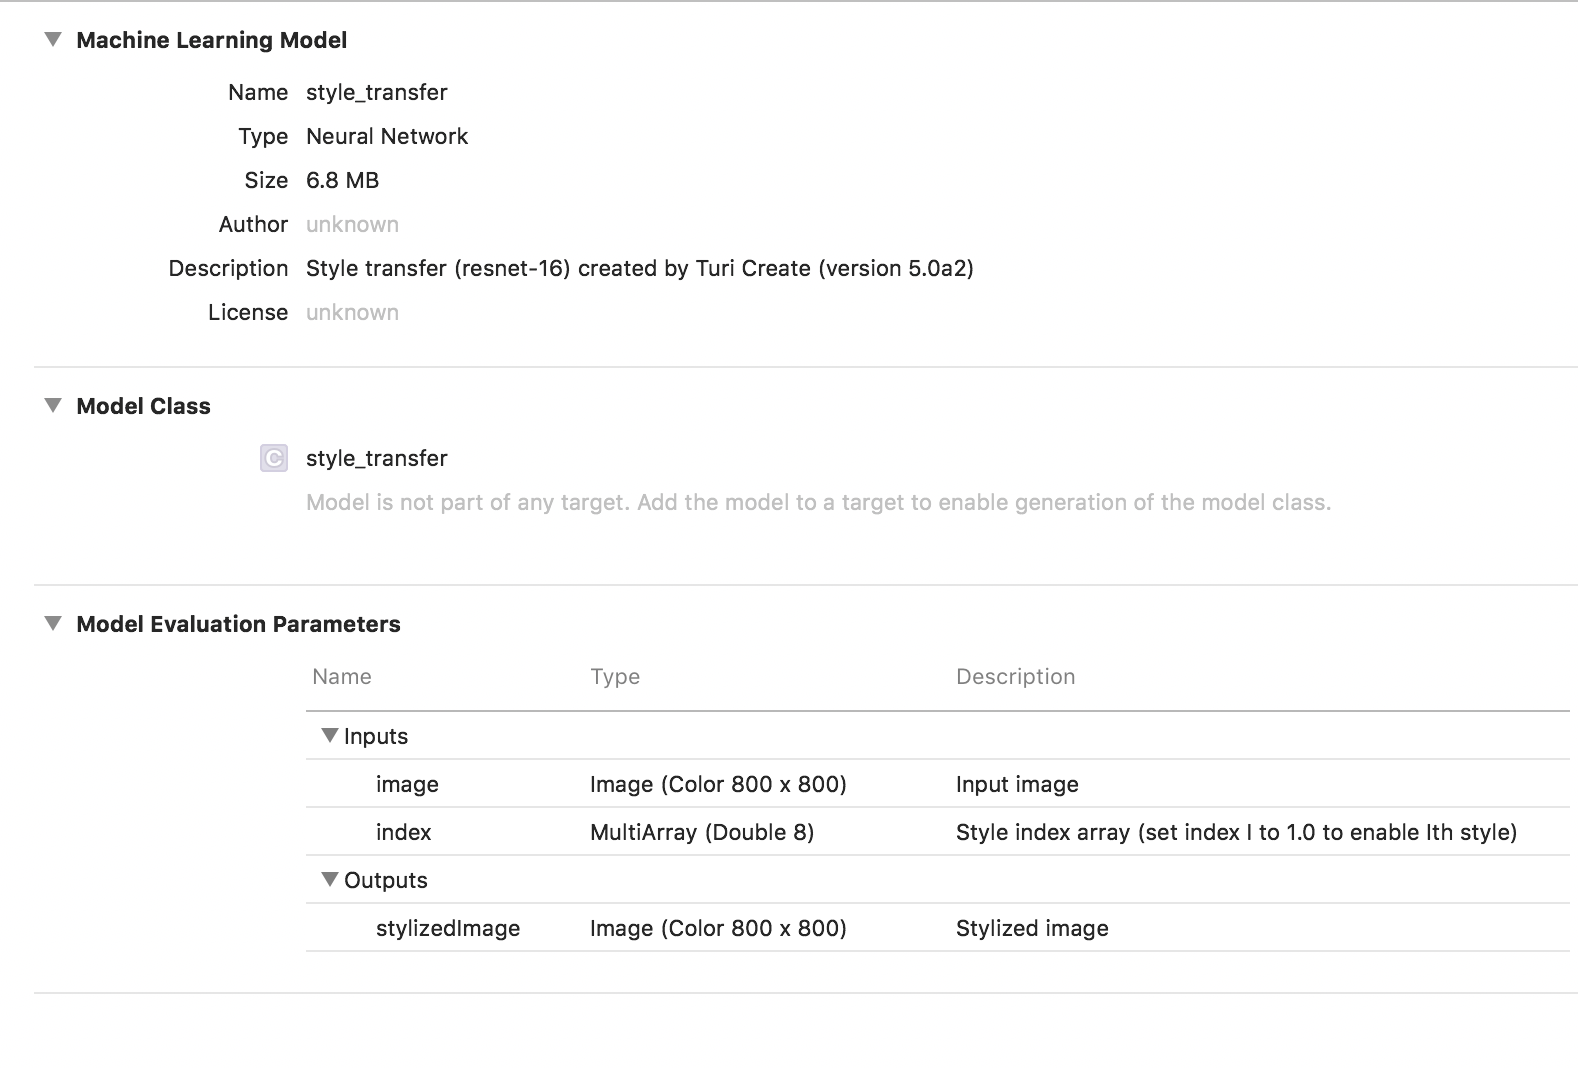
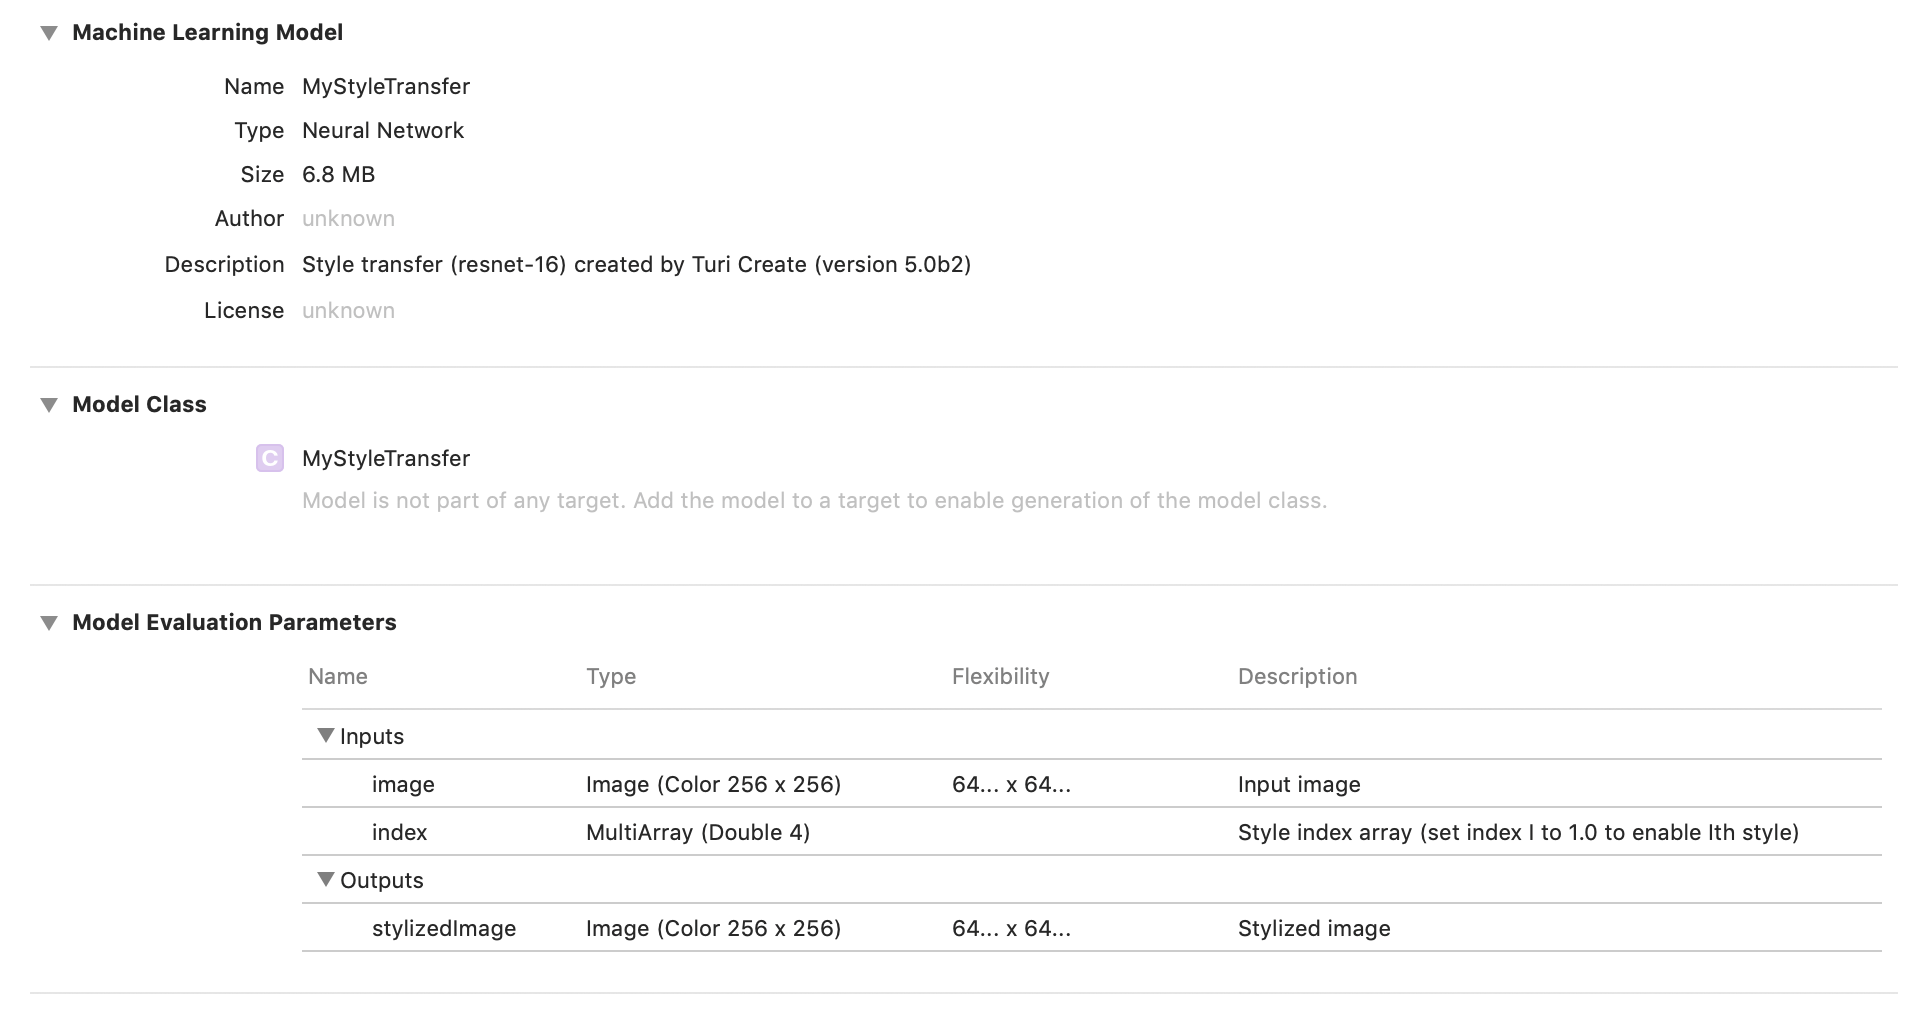
Style transfer - allow flexible shaped input for coreml model  (#934)
* support flexible shape

* fixes #665, add test for flexible shape

* update style_transfer xcode model image

diff --git a/src/unity/python/turicreate/test/test_style_transfer.py b/src/unity/python/turicreate/test/test_style_transfer.py
@@ -193,26 +193,37 @@ class StyleTransferTest(unittest.TestCase):
         _raise_error_if_not_sframe(model_styles)
         self.assertEqual(len(model_styles), len(style))
 
-    def test_export_coreml(self):
+    def _coreml_python_predict(self, coreml_model, img_fixed):
         from PIL import Image
+        pil_img = Image.fromarray(img_fixed.pixel_data)
+        if _mac_ver() >= (10, 13):
+            index_data = np.zeros(self.num_styles)
+            index_data[0] = 1
+            coreml_output = coreml_model.predict(
+                {self.content_feature: pil_img, 'index': index_data},
+                usesCPUOnly=True)
+            img = next(iter(coreml_output.values()))
+            img = np.asarray(img)
+            img = img[..., 0:3]
+            return img
+
+    def test_export_coreml(self):
         import coremltools
         filename = tempfile.mkstemp('my_style_transfer.mlmodel')[1]
         model = self.model
         model.export_coreml(filename)
 
         coreml_model = coremltools.models.MLModel(filename)
-        img = self.style_sf[0:1][self.style_feature][0]
+        img = self.style_sf[0:2][self.style_feature][0]
         img_fixed = tc.image_analysis.resize(img, 256, 256, 3)
-        pil_img = Image.fromarray(img_fixed.pixel_data)
-        if _mac_ver() >= (10, 13):
-            index_data = np.zeros(self.num_styles)
-            index_data[0] = 1
-            coreml_output = coreml_model.predict({self.content_feature: pil_img, 'index':index_data}, usesCPUOnly = True)
-            img = next(iter(coreml_output.values()))
-            img = np.asarray(img)
-            img = img[..., 0:3]
+        img = self._coreml_python_predict(coreml_model, img_fixed)
+        self.assertEqual(img.shape, (256, 256, 3))
 
-            self.assertEqual(img.shape, (256, 256, 3))
+        # Test for flexible shape
+        img = self.style_sf[0:2][self.style_feature][1]
+        img_fixed = tc.image_analysis.resize(img, 512, 512, 3)
+        img = self._coreml_python_predict(coreml_model, img_fixed)
+        self.assertEqual(img.shape, (512, 512, 3))
 
         # Also check if we can train a second model and export it (there could
         # be naming issues in mxnet)

diff --git a/src/unity/python/turicreate/toolkits/style_transfer/style_transfer.py b/src/unity/python/turicreate/toolkits/style_transfer/style_transfer.py
@@ -833,6 +833,15 @@ class StyleTransfer(_CustomModel):
         stylized_image = 'stylized%s' % self.content_feature.capitalize()
         coremltools.utils.rename_feature(spec,
                 'transformer__mulscalar0_output', stylized_image, True, True)
+
+        # Support flexible shape
+        flexible_shape_utils = _mxnet_converter._coremltools.models.neural_network.flexible_shape_utils
+        img_size_ranges = flexible_shape_utils.NeuralNetworkImageSizeRange()
+        img_size_ranges.add_height_range((64, -1))
+        img_size_ranges.add_width_range((64, -1))
+        flexible_shape_utils.update_image_size_range(spec, feature_name=self.content_feature, size_range=img_size_ranges)
+        flexible_shape_utils.update_image_size_range(spec, feature_name=stylized_image, size_range=img_size_ranges)
+
         mlmodel = coremltools.models.MLModel(spec)
         model_type = 'style transfer (%s)' % self.model
         mlmodel.short_description = _coreml_utils._mlmodel_short_description(
